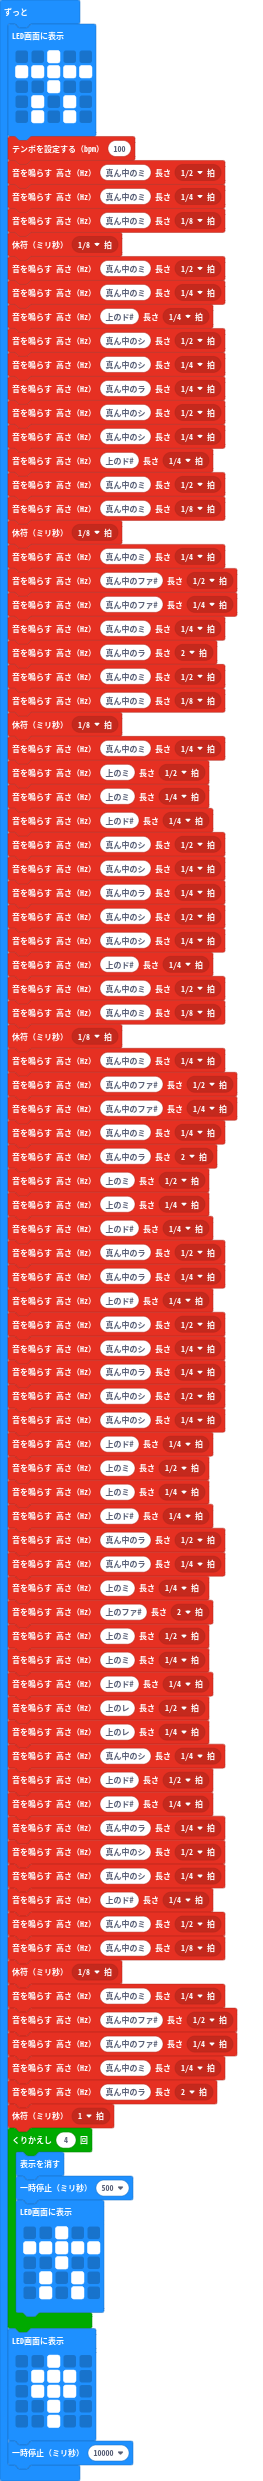
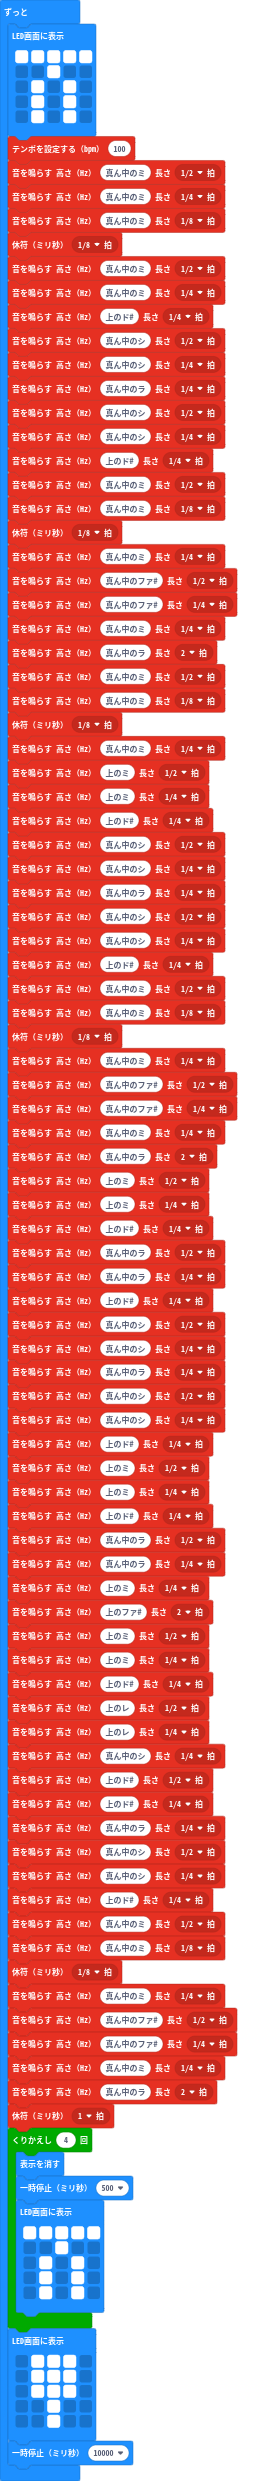
更新 main.blocks, main.ts

Changed region(s): [[0.0913, 0.9, 0.3954, 0.9621], [0.0608, 0.0, 0.365, 0.0621]]

diff --git a/main.ts b/main.ts
@@ -1,8 +1,8 @@
 basic.forever(function () {
     basic.showLeds(`
-        . . # . .
         # # # # #
         . . # . .
+        . # . # .
         . # . # .
         . # . # .
         `)
@@ -93,15 +93,15 @@ basic.forever(function () {
         basic.clearScreen()
         basic.pause(500)
         basic.showLeds(`
-            . . # . .
             # # # # #
             . . # . .
+            . # . # .
             . # . # .
             . # . # .
             `)
     }
     basic.showLeds(`
-        . . # . .
+        . # # # .
         . # # # .
         . # # # .
         . . # . .
